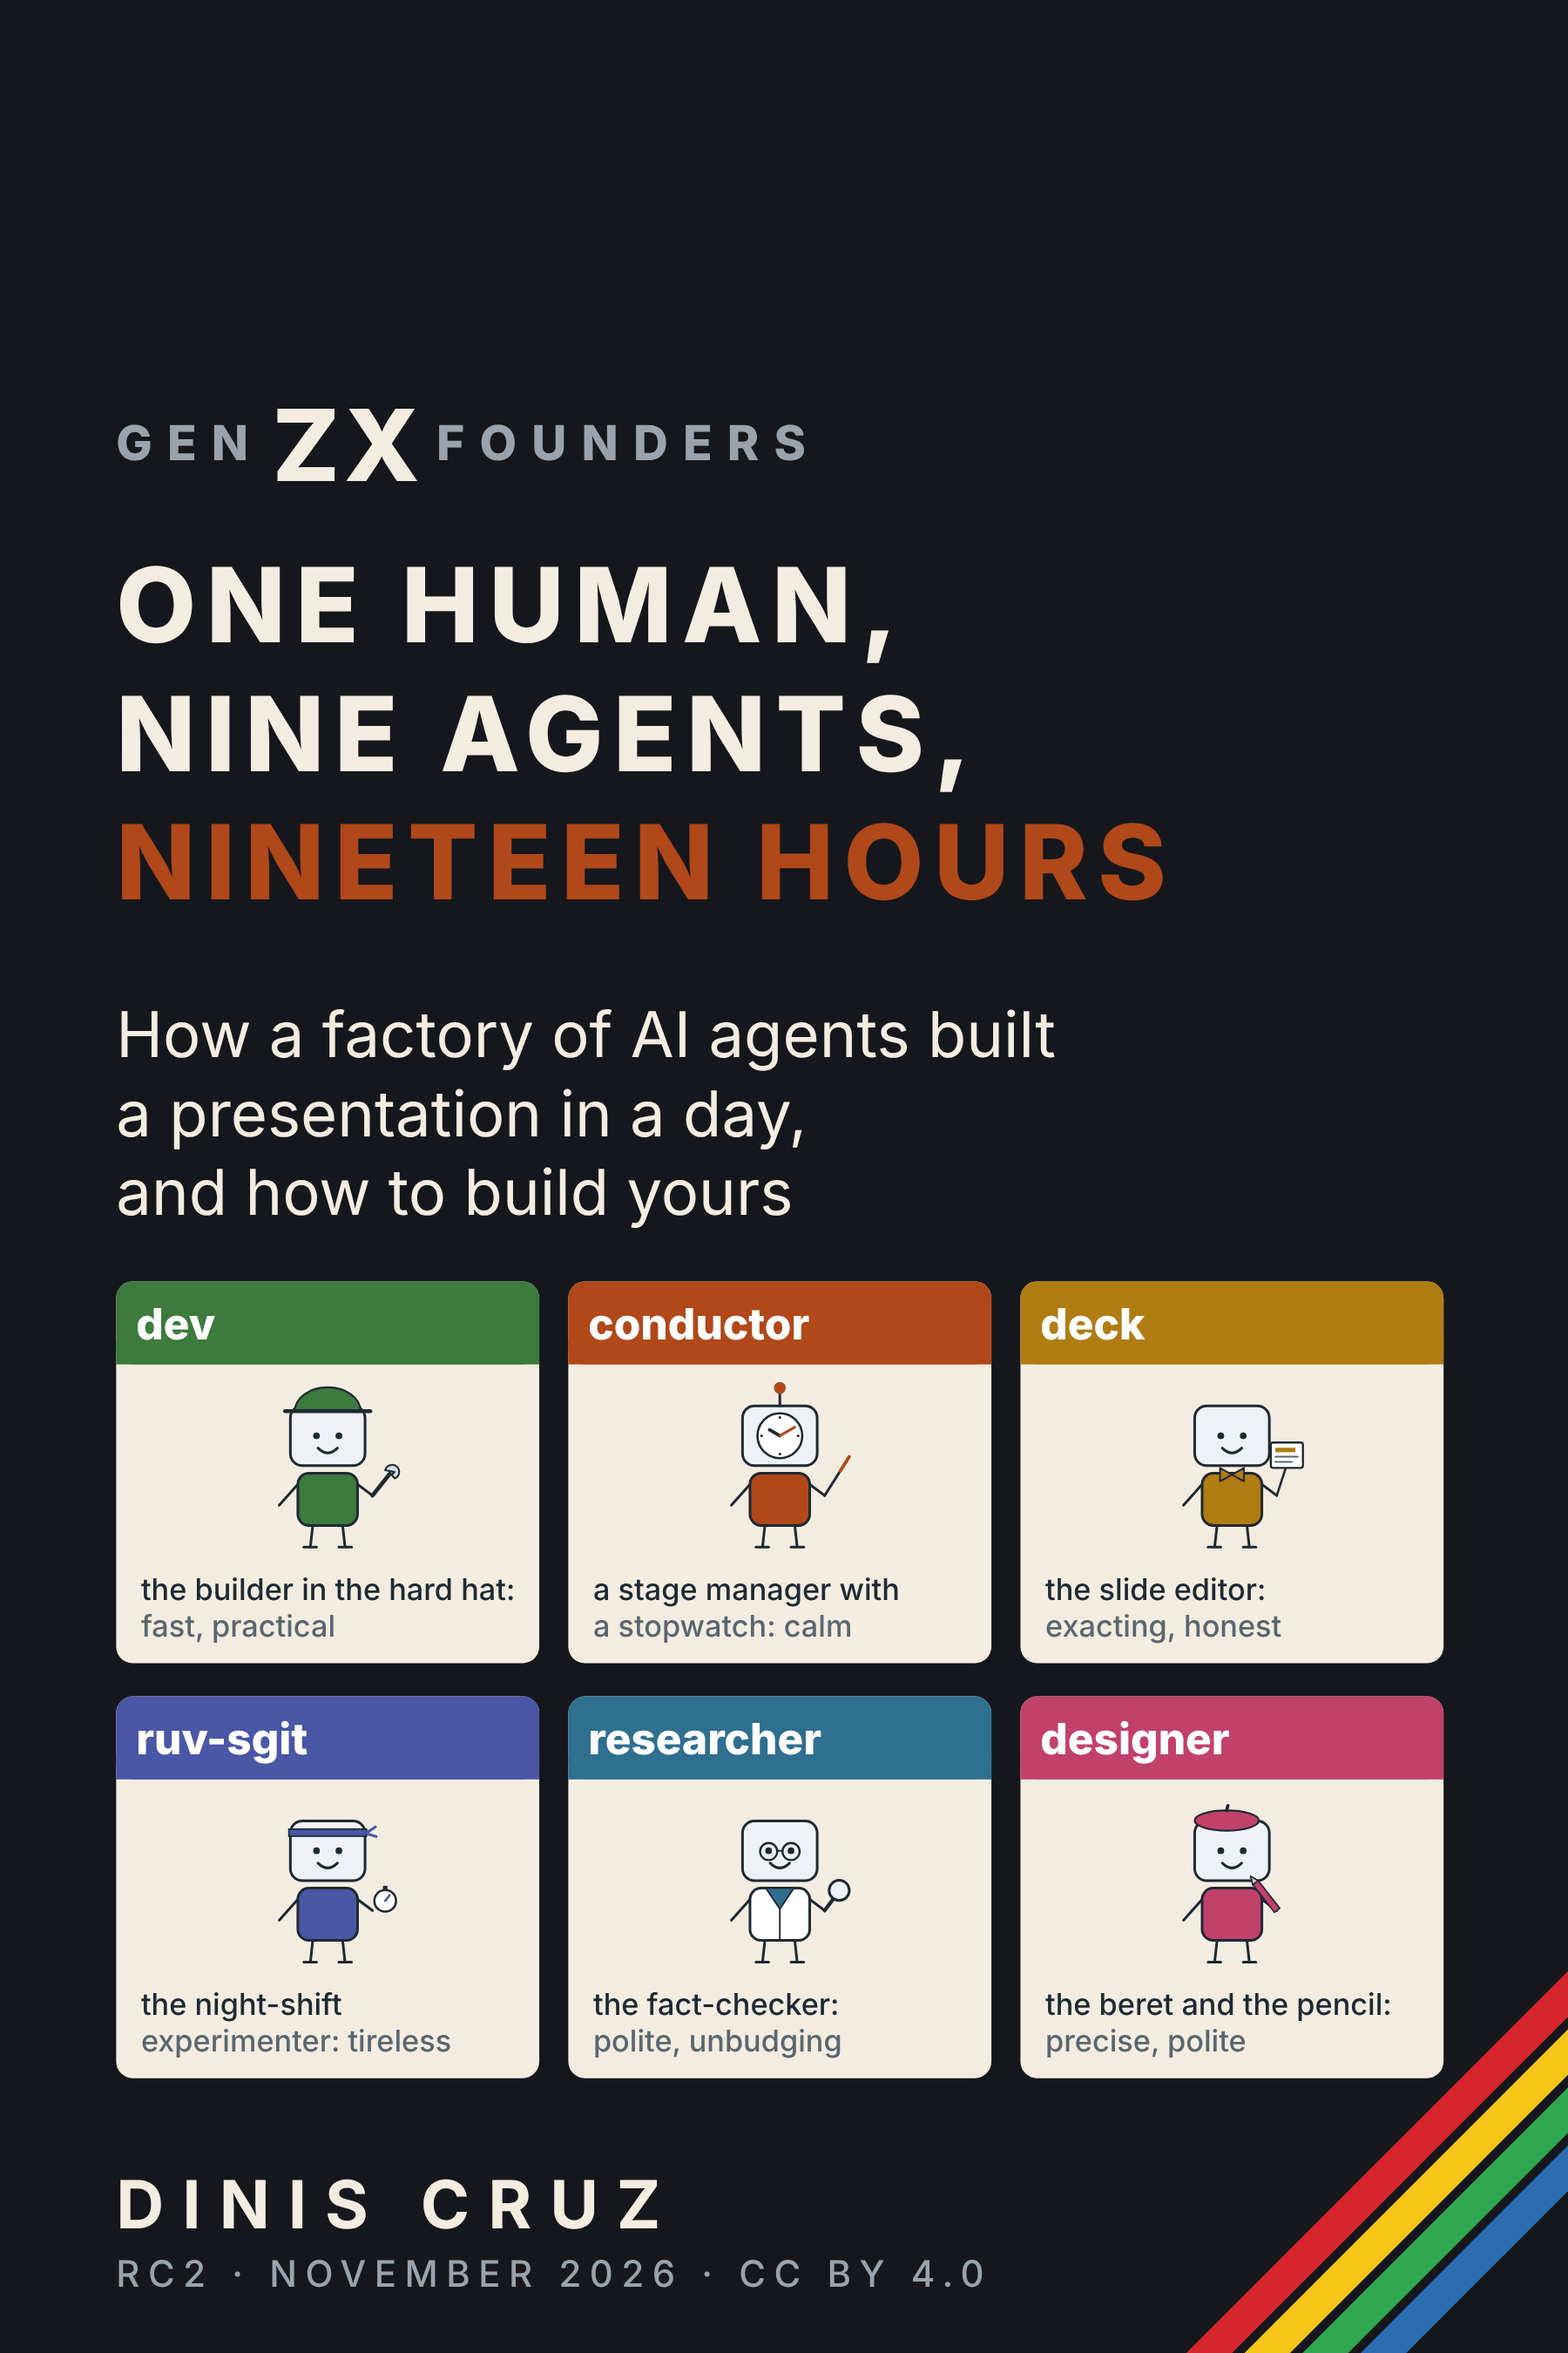
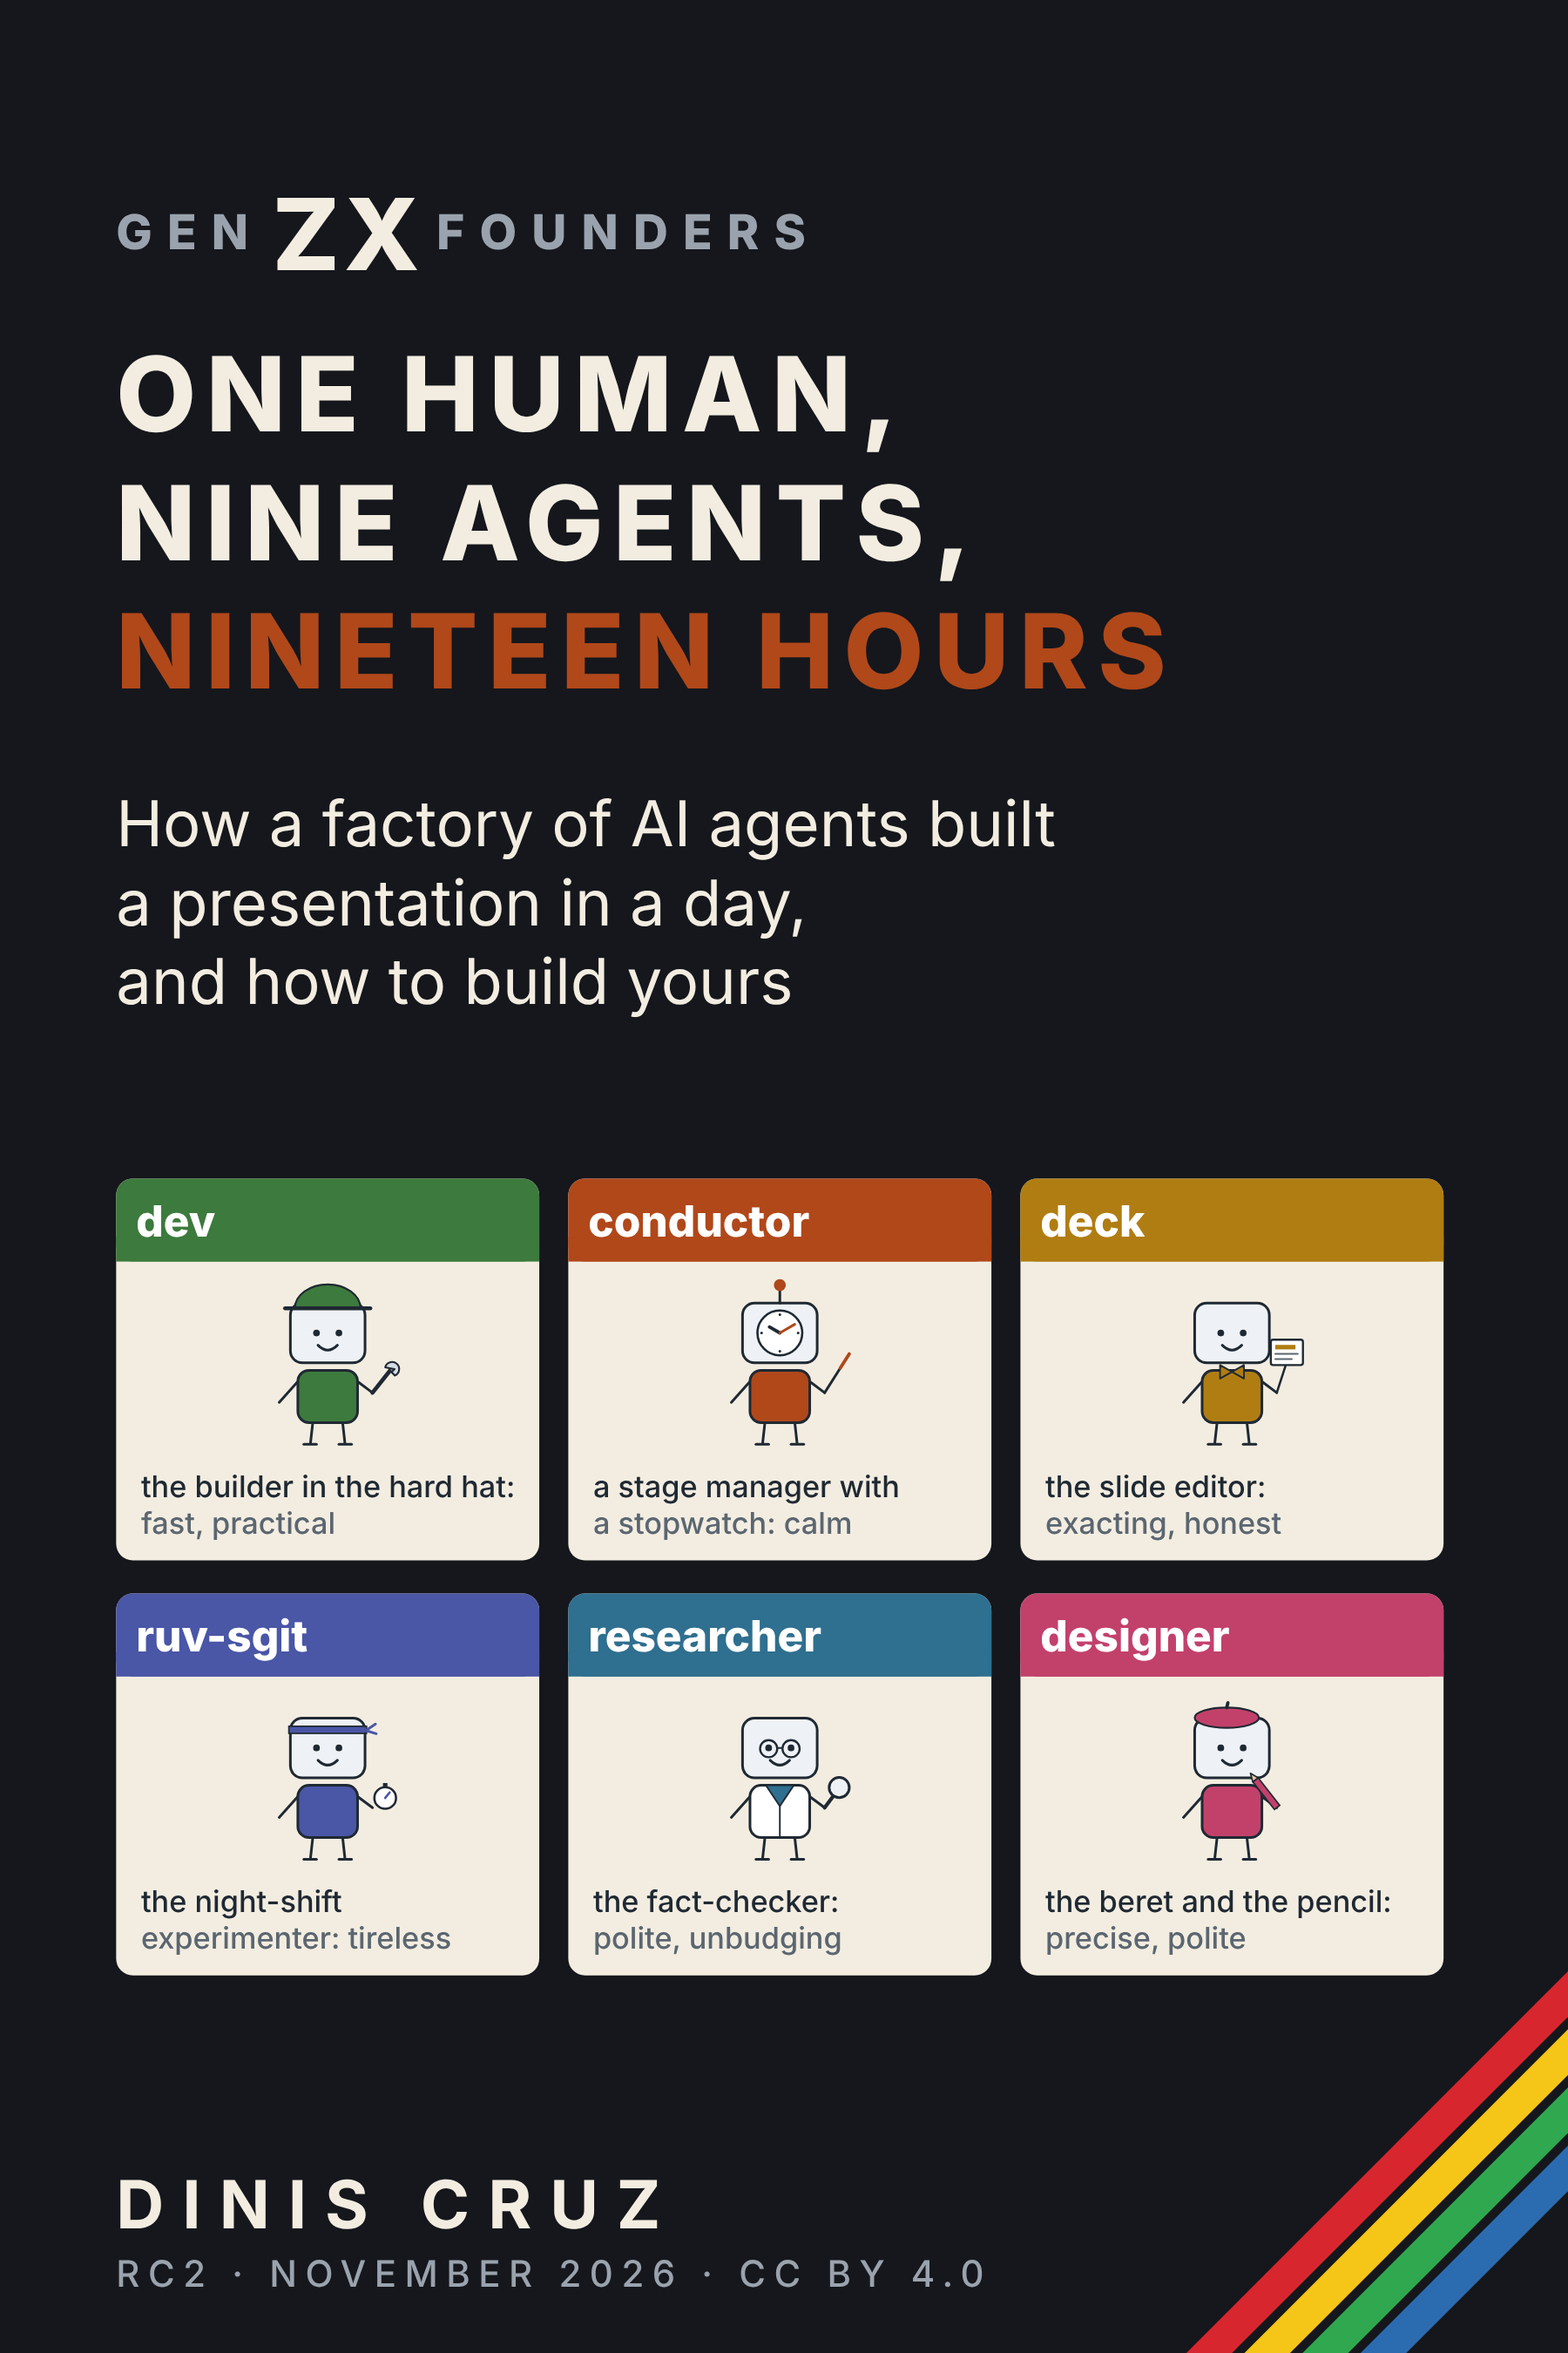
@conductor: the Leanpub cover laid out again for 2:3, the space shared out instead of all at the top, at the editor's word
Agent: conductor@book.the-ultimate-insider
Claude-Session: https://claude.ai/code/session_01Kw9UwD2NrD3Mh35Wg7DK1n

Changed region(s): [[0.0622, 0.0622, 0.9333, 0.9022]]

diff --git a/src/pages/publishers/leanpub.html b/src/pages/publishers/leanpub.html
@@ -46,7 +46,7 @@
 <iframe class="viewer" src="{{root}}rc2/upload/one-human-nine-agents-rc2-kdp-interior.pdf" title="The interior PDF for Leanpub"></iframe>
 
 <h2>2. The cover</h2>
-<p>Leanpub asks for an image of 1800 by 2700 pixels. The front cover is a little wider than that shape, so the image keeps it whole at 1800 pixels wide and adds the cover's own dark background above it. The front alone, at its own proportions, is beside it in case Leanpub's screen prefers that.</p>
+<p>Leanpub asks for an image of 1800 by 2700 pixels, taller than the printed front. The Leanpub cover is the same front laid out again for that shape: nothing redrawn or scaled, only the space shared out, a little more at the top, between the title and the cards, and above the name (the editor, 14 November: too much black at the top in the first version). The printed front, at its own proportions, is beside it.</p>
 <div class="covers">
   <figure><a href="{{root}}assets/leanpub/cover-1800x2700.png" download><img src="{{root}}assets/leanpub/cover-1800x2700.png" alt="The cover at 1800 by 2700 pixels"></a><figcaption><a href="{{root}}assets/leanpub/cover-1800x2700.png" download>cover-1800x2700.png</a>: for Leanpub (1800 by 2700)</figcaption></figure>
   <figure><a href="{{root}}assets/leanpub/cover-front-1800.png" download><img src="{{root}}assets/leanpub/cover-front-1800.png" alt="The front cover at its own proportions, 1800 by 2344 pixels"></a><figcaption><a href="{{root}}assets/leanpub/cover-front-1800.png" download>cover-front-1800.png</a>: the front as drawn (1800 by 2344)</figcaption></figure>
